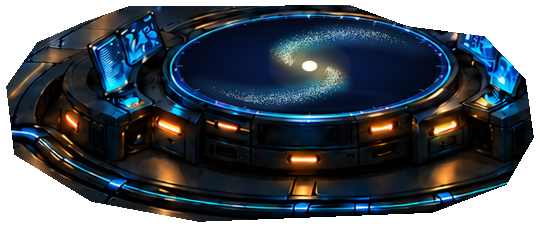
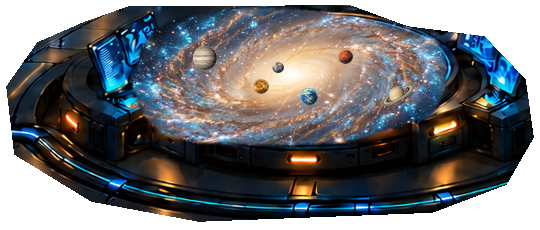
fix(kevin): integrate master galaxy and realistic solar system directly into root asset without overlays

Changed region(s): [[0.237, 0.0304, 0.8296, 0.6391]]

diff --git a/webview-ui/src/ductor/starshipV10KevinMotion.ts b/webview-ui/src/ductor/starshipV10KevinMotion.ts
@@ -82,11 +82,19 @@ export interface KevinPixelMotion {
 
 const WIDTH = 540;
 const HEIGHT = 230;
-const DISH_CX = 309.5;
-const DISH_CY = 66.0;
-const DISH_RX = 136.0;
-const DISH_RY = 48.0;
-const ORBIT_Y_RATIO = DISH_RY / DISH_RX; // 0.3529
+const DISH_CX = 290.0;
+const DISH_CY = 76.0;
+const DISH_RX = 152.0;
+const DISH_RY = 64.0;
+const ORBIT_Y_RATIO = DISH_RY / DISH_RX; // 0.42105
+
+const POLY_PERFECT: readonly (readonly [number, number])[] = [
+  [130, 80], [138, 48], [152, 28], [175, 16], [210, 8],
+  [253, 5], [300, 7], [337, 12], [365, 17], [385, 22],
+  [405, 27], [420, 32], [435, 36], [443, 48], [448, 65],
+  [447, 85], [440, 105], [425, 118], [395, 130], [347, 144],
+  [270, 147], [196, 144], [160, 134], [145, 120], [134, 102],
+];
 
 interface PlanetConfig {
   id: string;
@@ -94,57 +102,77 @@ interface PlanetConfig {
   startAngle: number;
   speed: number;
   color: string;
+  dw: number;
+  dh: number;
   spriteSrc: string;
 }
 
 const PLANETS: readonly PlanetConfig[] = [
   {
     id: 'mercury',
-    r: 17,
-    startAngle: 4.40,
-    speed: 0.85,
-    color: 'rgba(200, 215, 245,',
[1 lines of base64/hex data omitted]
+    r: 24,
+    startAngle: 4.2,
+    speed: 0.9,
+    color: 'rgba(200, 220, 255,',
+    dw: 12,
+    dh: 11,
+    spriteSrc:
[1 lines of base64/hex data omitted]
   },
   {
     id: 'venus',
-    r: 29,
-    startAngle: 2.70,
-    speed: 0.45,
-    color: 'rgba(245, 215, 140,',
[1 lines of base64/hex data omitted]
+    r: 38,
+    startAngle: 2.4,
+    speed: 0.48,
+    color: 'rgba(255, 225, 150,',
+    dw: 16,
+    dh: 15,
+    spriteSrc:
[1 lines of base64/hex data omitted]
   },
   {
     id: 'earth',
-    r: 43,
-    startAngle: 1.85,
-    speed: 0.28,
-    color: 'rgba(56, 189, 248,',
[1 lines of base64/hex data omitted]
+    r: 54,
+    startAngle: 1.2,
+    speed: 0.32,
+    color: 'rgba(80, 200, 255,',
+    dw: 18,
+    dh: 18,
+    spriteSrc:
[1 lines of base64/hex data omitted]
   },
   {
     id: 'mars',
-    r: 57,
-    startAngle: 5.25,
-    speed: 0.18,
-    color: 'rgba(240, 100, 60,',
[1 lines of base64/hex data omitted]
+    r: 72,
+    startAngle: 5.6,
+    speed: 0.22,
+    color: 'rgba(255, 110, 70,',
+    dw: 15,
+    dh: 15,
+    spriteSrc:
[1 lines of base64/hex data omitted]
   },
   {
     id: 'jupiter',
-    r: 72,
-    startAngle: 3.50,
-    speed: 0.09,
-    color: 'rgba(235, 190, 130,',
[1 lines of base64/hex data omitted]
+    r: 94,
+    startAngle: 3.6,
+    speed: 0.12,
+    color: 'rgba(245, 200, 140,',
+    dw: 24,
+    dh: 24,
+    spriteSrc:
[1 lines of base64/hex data omitted]
   },
   {
     id: 'saturn',
-    r: 88,
-    startAngle: 0.20,
-    speed: 0.05,
-    color: 'rgba(240, 220, 170,',
[1 lines of base64/hex data omitted]
+    r: 118,
+    startAngle: 0.4,
+    speed: 0.07,
+    color: 'rgba(245, 225, 180,',
+    dw: 34,
+    dh: 22,
+    spriteSrc:
[1 lines of base64/hex data omitted]
   },
 ];
 
@@ -178,6 +206,11 @@ export async function loadKevinPixelMotion(
     );
   }
 
+  // Optional clean galaxy dish plate for dynamic movement frames
+  const cleanPlateImg = await loadImage(
+    assetUrl.replace('kevin-station.png', 'kevin-clean-plate.png'),
+  ).catch(() => null);
+
   // Pre-load the 6 celestial body sprites
   const loadedSprites = await Promise.all(
     PLANETS.map(async (p) => ({
@@ -186,13 +219,26 @@ export async function loadKevinPixelMotion(
     })),
   );
 
-  // Base canvas containing the clean table, glowing concentric orbits, and central Sun
+  // Base canvas containing the master rest pose
   const baseCanvas = document.createElement('canvas');
   baseCanvas.width = WIDTH;
   baseCanvas.height = HEIGHT;
   const baseCtx = baseCanvas.getContext('2d');
   if (!baseCtx) throw new Error('2D context unavailable for Kevin base canvas');
   baseCtx.drawImage(baseImg, 0, 0);
+
+  // Clean plate canvas for motion
+  const cleanPlateCanvas = document.createElement('canvas');
+  cleanPlateCanvas.width = WIDTH;
+  cleanPlateCanvas.height = HEIGHT;
+  const cleanPlateCtx = cleanPlateCanvas.getContext('2d');
+  if (cleanPlateCtx) {
+    if (cleanPlateImg) {
+      cleanPlateCtx.drawImage(cleanPlateImg, 0, 0);
+    } else {
+      cleanPlateCtx.drawImage(baseImg, 0, 0);
+    }
+  }
 
   // Runtime animation composite frame canvas
   const frameCanvas = document.createElement('canvas');
@@ -212,7 +258,7 @@ export async function loadKevinPixelMotion(
       id: 'concentric_laser_orbits',
       kind: 'generated-static',
       z: 20,
-      primitiveCount: 6,
+      primitiveCount: 0,
     },
     ...PLANETS.map((p, idx): KevinMotionLayerAudit => ({
       id: p.id,
@@ -264,42 +310,47 @@ export async function loadKevinPixelMotion(
     },
 
     render(timeSec: number, working: boolean): HTMLCanvasElement {
+      if (!working || timeSec === 0) {
+        return baseCanvas;
+      }
+
       frameCtx.clearRect(0, 0, WIDTH, HEIGHT);
-      frameCtx.drawImage(baseCanvas, 0, 0);
+      frameCtx.drawImage(cleanPlateCanvas, 0, 0);
 
-      const speedMult = working ? 1.4 : 1.0;
+      const speedMult = 1.35;
 
-      // Strict elliptical design boundary
+      // Strict polygon design boundary
       frameCtx.save();
       frameCtx.beginPath();
-      frameCtx.ellipse(DISH_CX, DISH_CY, DISH_RX, DISH_RY, 0, 0, Math.PI * 2);
+      frameCtx.moveTo(POLY_PERFECT[0]![0], POLY_PERFECT[0]![1]);
+      for (let i = 1; i < POLY_PERFECT.length; i++) {
+        frameCtx.lineTo(POLY_PERFECT[i]![0], POLY_PERFECT[i]![1]);
+      }
+      frameCtx.closePath();
       frameCtx.clip();
 
-      // 1. Planetary motion in pure cosmic galaxy space (zero concentric blueprint rings)
+      // 1. Draw subtle cometary motion trail along orbital paths
+      const trailLen = 0.35;
+      const trailSteps = 8;
+      for (const p of loadedSprites) {
+        const theta = p.startAngle + p.speed * timeSec * speedMult;
+        for (let s = 0; s < trailSteps; s++) {
+          const frac = (s + 1) / trailSteps;
+          const tt = theta - (1.0 - frac) * trailLen;
+          const tx = DISH_CX + Math.cos(tt) * p.r;
+          const ty = DISH_CY + Math.sin(tt) * (p.r * ORBIT_Y_RATIO);
+          frameCtx.fillStyle = p.color + (frac * 0.42).toFixed(3) + ')';
+          frameCtx.fillRect(Math.round(tx), Math.round(ty), 1, 1);
+        }
+      }
 
-      // 2. Compute 3D positions and draw dynamic trailing orbital wakes
-      const trailLen = 0.40;
-      const trailSteps = 16;
+      // 2. Compute 3D positions
       const states = loadedSprites.map((p) => {
         const theta = p.startAngle + p.speed * timeSec * speedMult;
         const gx = DISH_CX + Math.cos(theta) * p.r;
         const gy = DISH_CY + Math.sin(theta) * (p.r * ORBIT_Y_RATIO);
         const normDepth = (gy - DISH_CY) / DISH_RY;
         const scale = 1.0 + normDepth * 0.12;
-
-        // Draw glowing cometary motion trail behind the planet along its orbit
-        for (let s = 0; s < trailSteps; s += 1) {
-          const frac = s / trailSteps;
-          const trailTheta = theta - (1.0 - frac) * trailLen;
-          const tx = DISH_CX + Math.cos(trailTheta) * p.r;
-          const ty = DISH_CY + Math.sin(trailTheta) * (p.r * ORBIT_Y_RATIO);
-          const alpha = (0.45 * Math.pow(frac, 2.0)).toFixed(3);
-          frameCtx.fillStyle = p.color + alpha + ')';
-          frameCtx.fillRect(Math.round(tx), Math.round(ty), 1, 1);
-          if (s > trailSteps - 5) {
-            frameCtx.fillRect(Math.round(tx), Math.round(ty) + 1, 1, 1);
-          }
-        }
 
         return {
           ...p,
@@ -316,8 +367,8 @@ export async function loadKevinPixelMotion(
       // Render bodies behind the Sun (gy < DISH_CY)
       for (const s of states) {
         if (s.depth < DISH_CY) {
-          const iw = Math.round(s.image.naturalWidth * s.scale);
-          const ih = Math.round(s.image.naturalHeight * s.scale);
+          const iw = Math.round(s.dw * s.scale);
+          const ih = Math.round(s.dh * s.scale);
           frameCtx.drawImage(
             s.image,
             Math.round(s.gx - iw / 2),
@@ -328,7 +379,7 @@ export async function loadKevinPixelMotion(
         }
       }
 
-      // Volumetric breathing solar corona
+      // Volumetric breathing solar corona in the center
       const sunBreath = 0.5 + 0.5 * Math.sin(timeSec * 2.8);
       const sunGlow = frameCtx.createRadialGradient(
         DISH_CX,
@@ -338,17 +389,17 @@ export async function loadKevinPixelMotion(
         DISH_CY,
         18 + sunBreath * 3,
       );
-      sunGlow.addColorStop(0, 'rgba(255, 255, 240, 0.45)');
-      sunGlow.addColorStop(0.3, 'rgba(255, 220, 110, ' + (0.28 + sunBreath * 0.10).toFixed(3) + ')');
-      sunGlow.addColorStop(0.7, 'rgba(255, 140, 30, ' + (0.12 + sunBreath * 0.06).toFixed(3) + ')');
+      sunGlow.addColorStop(0, 'rgba(255, 255, 240, 0.40)');
+      sunGlow.addColorStop(0.3, 'rgba(255, 220, 110, ' + (0.25 + sunBreath * 0.08).toFixed(3) + ')');
+      sunGlow.addColorStop(0.7, 'rgba(255, 140, 30, ' + (0.10 + sunBreath * 0.05).toFixed(3) + ')');
       sunGlow.addColorStop(1, 'rgba(255, 80, 0, 0)');
       frameCtx.fillStyle = sunGlow;
       frameCtx.beginPath();
       frameCtx.ellipse(
         DISH_CX,
         DISH_CY,
-        22 + sunBreath * 3,
-        12 + sunBreath * 2,
+        20 + sunBreath * 2,
+        10 + sunBreath * 1.5,
         0,
         0,
         Math.PI * 2,
@@ -358,8 +409,8 @@ export async function loadKevinPixelMotion(
       // Render bodies in front of the Sun (gy >= DISH_CY)
       for (const s of states) {
         if (s.depth >= DISH_CY) {
-          const iw = Math.round(s.image.naturalWidth * s.scale);
-          const ih = Math.round(s.image.naturalHeight * s.scale);
+          const iw = Math.round(s.dw * s.scale);
+          const ih = Math.round(s.dh * s.scale);
           frameCtx.drawImage(
             s.image,
             Math.round(s.gx - iw / 2),

diff --git a/webview-ui/src/ductor/starshipSimulation.ts b/webview-ui/src/ductor/starshipSimulation.ts
@@ -2486,7 +2486,7 @@ export function drawStage(
   if (!roomInDom) drawFloorMarkers(ctx, showStations);
   if (livingArtwork) drawHologramTopGlow(ctx, agents, timeSec);
   const mapOperator = agents.find((agent) => agent.name === 'Kevin');
-  if ((livingArtwork || roomInDom) && mapOperator) drawKevinStarMapControl(ctx, mapOperator);
+  if (livingArtwork && mapOperator) drawKevinStarMapControl(ctx, mapOperator);
 
   const sorted = [...agents].sort((a, b) => a.y - b.y);
   for (const a of sorted) {
